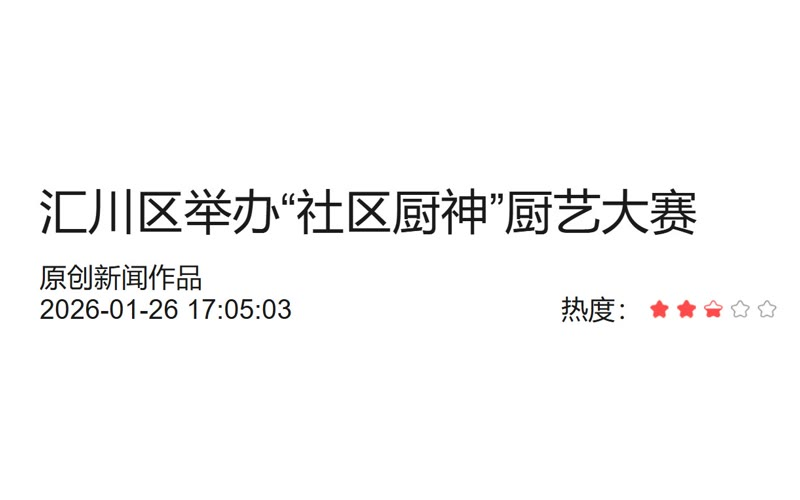
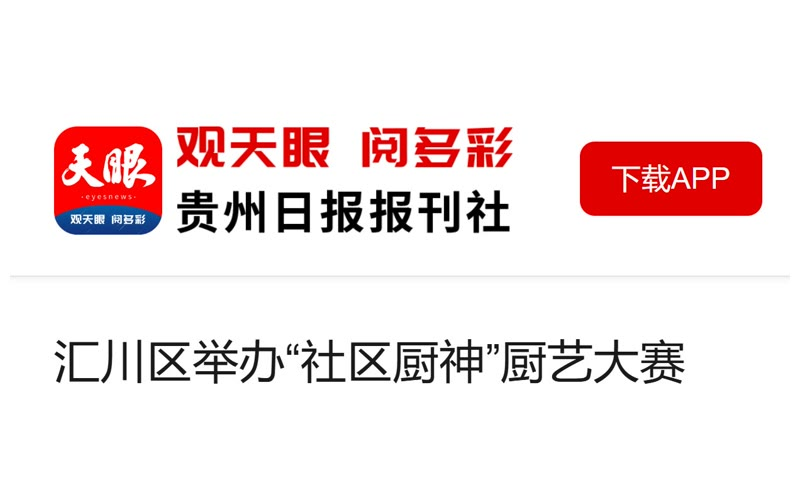
Add files via upload

Changed region(s): [[0.0312, 0.24, 0.9688, 0.48], [0.0312, 0.51, 0.9688, 0.78], [0.6875, 0.6, 0.7812, 0.66]]

diff --git a/index.html b/index.html
@@ -142,9 +142,9 @@ h1{font-family:var(--serif);font-size:clamp(48px,5vw,72px);line-height:1.36;font
 .embed-box iframe{width:100%;height:100%;border:0}
 .video-list{padding-top:6px}
 .video-list h4{font-family:var(--latin);font-size:11px;letter-spacing:.26em;color:var(--accent);font-weight:500;margin-bottom:20px}
-.work-item{position:relative;display:block;width:100%;text-align:left;padding:16px 0;border-top:1px solid #E7E4DC;transition:color .25s,background .25s}
+.work-item{position:relative;display:block;width:100%;text-align:left;padding:16px 0 16px 14px;border-top:1px solid #E7E4DC;transition:color .25s,background .25s}
 .work-item:hover{background:linear-gradient(90deg,rgba(58,83,107,.06),transparent 65%)}
-.work-item.on::before{content:'';position:absolute;left:-12px;top:16px;bottom:16px;width:2px;background:var(--accent)}
+.work-item.on::before{content:'';position:absolute;left:0;top:16px;bottom:16px;width:2px;background:var(--accent)}
 .work-item strong{display:block;font-size:15px;font-weight:500;color:var(--ink)}
 .work-item small{display:block;font-size:12px;color:var(--faint);margin-top:6px;letter-spacing:.04em}
 .work-item.on strong{color:var(--accent)}
@@ -174,8 +174,8 @@ h1{font-family:var(--serif);font-size:clamp(48px,5vw,72px);line-height:1.36;font
 .write-links a:hover{border-color:var(--accent);background:var(--accent);color:#fff}
 .write-links a svg{width:11px;height:11px}
 .write-thumb{height:148px;overflow:hidden;background:#D6D2C8}
-.write-thumb img{width:100%;height:100%;object-fit:cover;filter:grayscale(1);transition:filter .4s,transform .4s}
-.write-row:hover .write-thumb img{filter:grayscale(0);transform:scale(1.04)}
+.write-thumb img{width:100%;height:100%;object-fit:cover;transition:transform .4s}
+.write-row:hover .write-thumb img{transform:scale(1.04)}
 
 /* layout samples */
 .layout-grid{display:grid;grid-template-columns:1.6fr 1fr;gap:32px}
